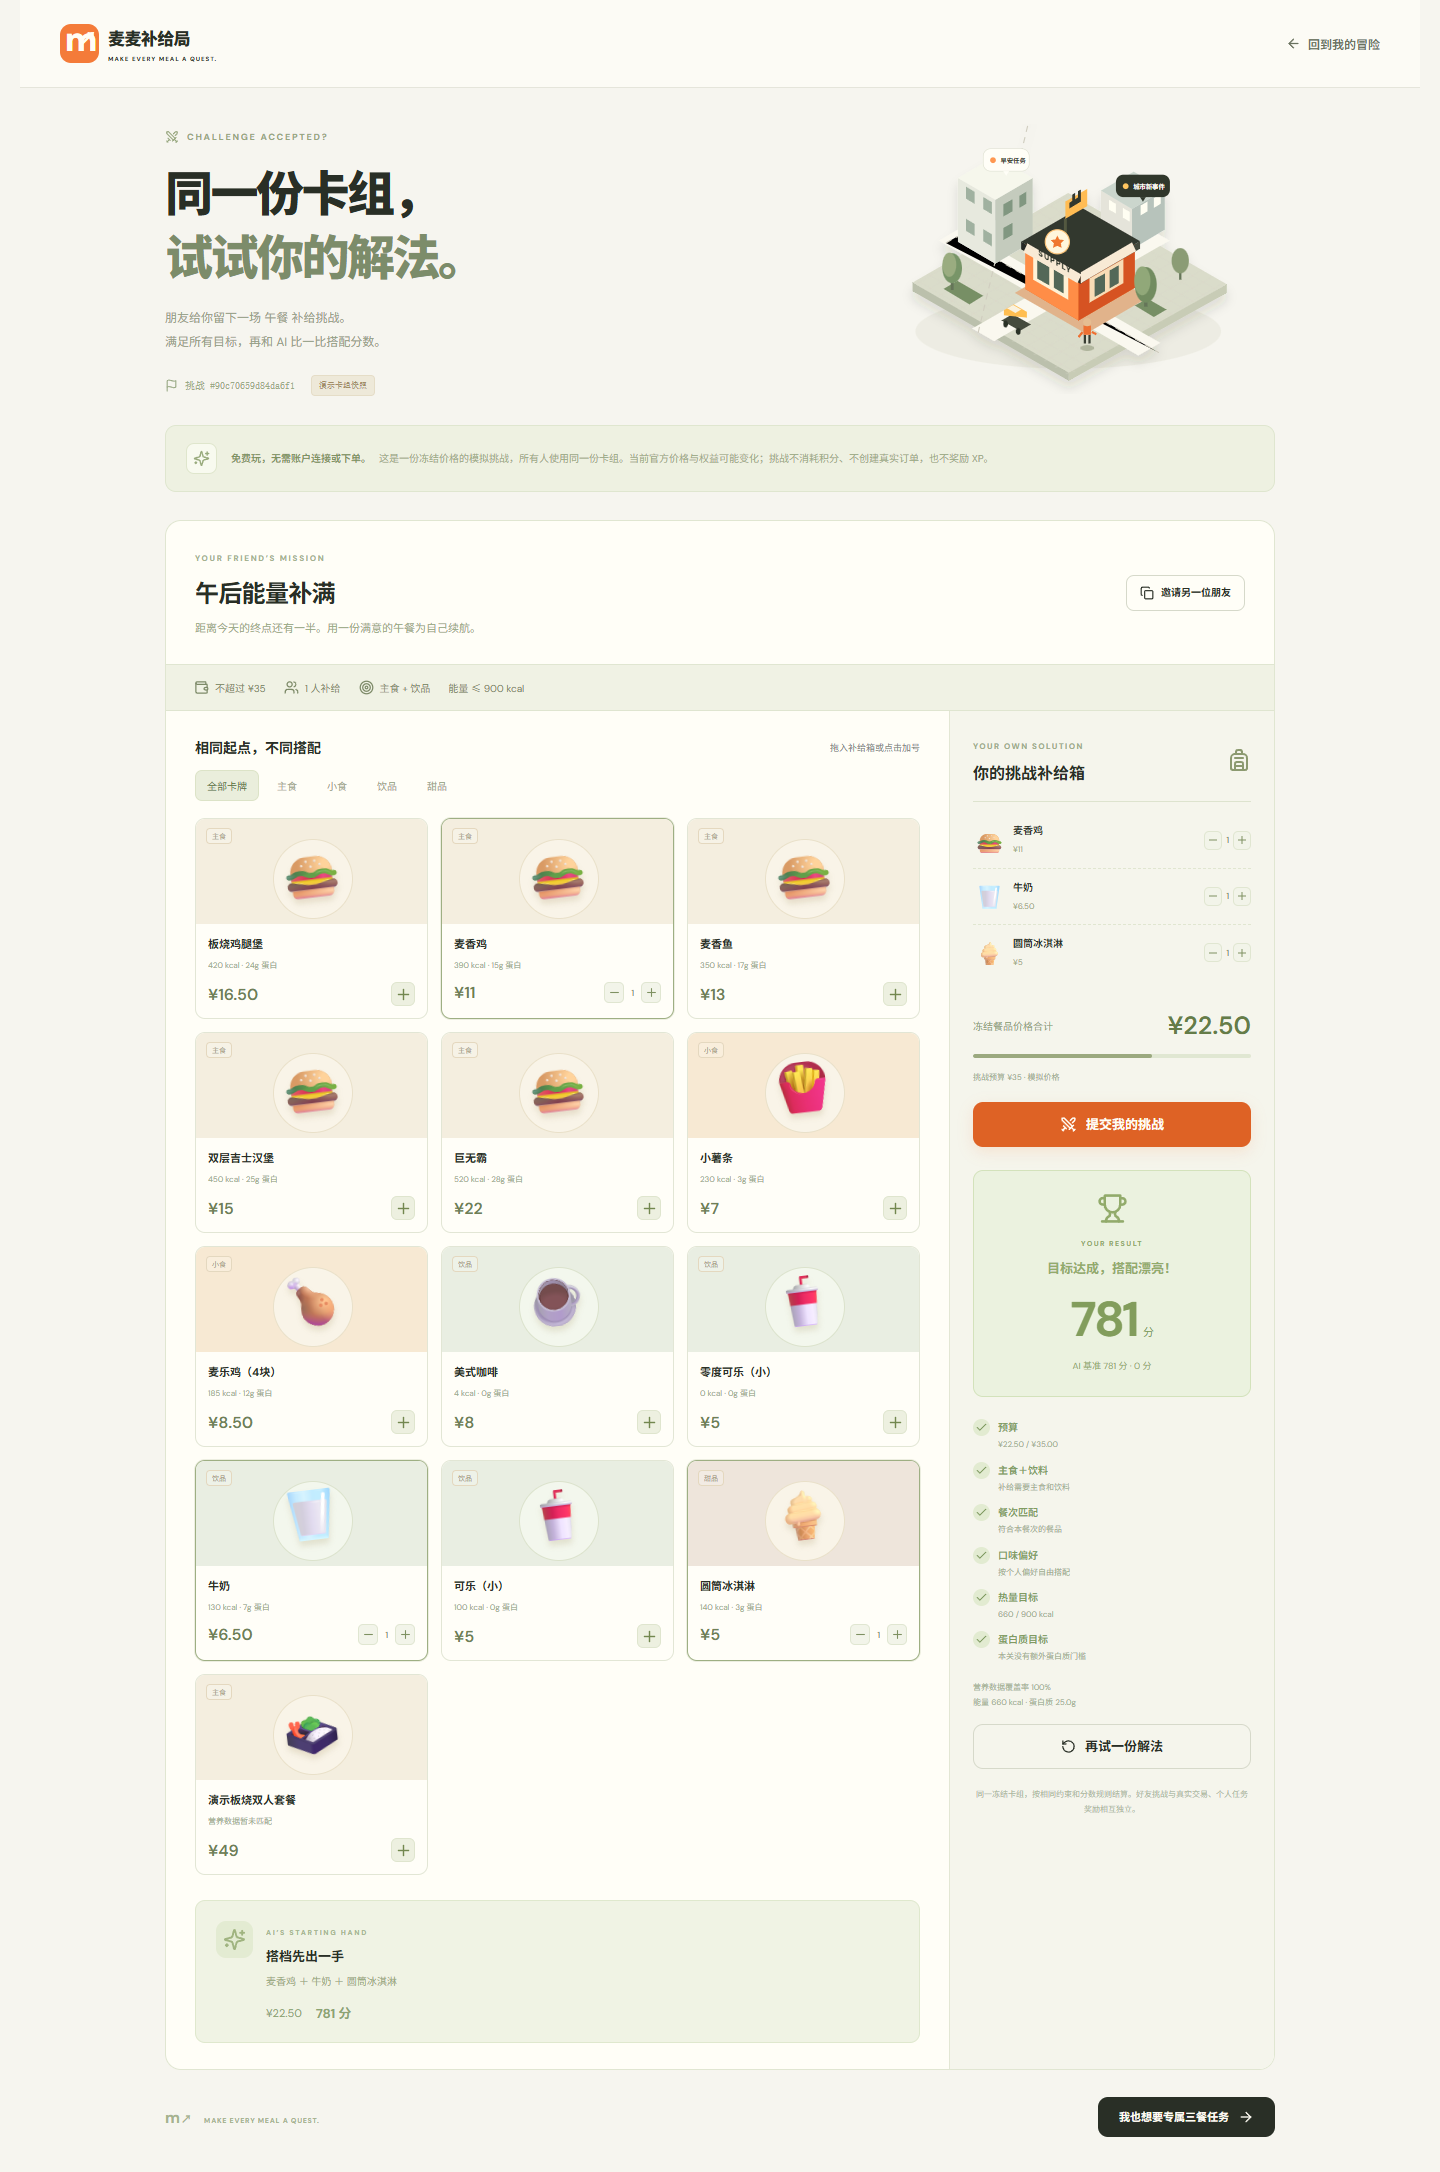
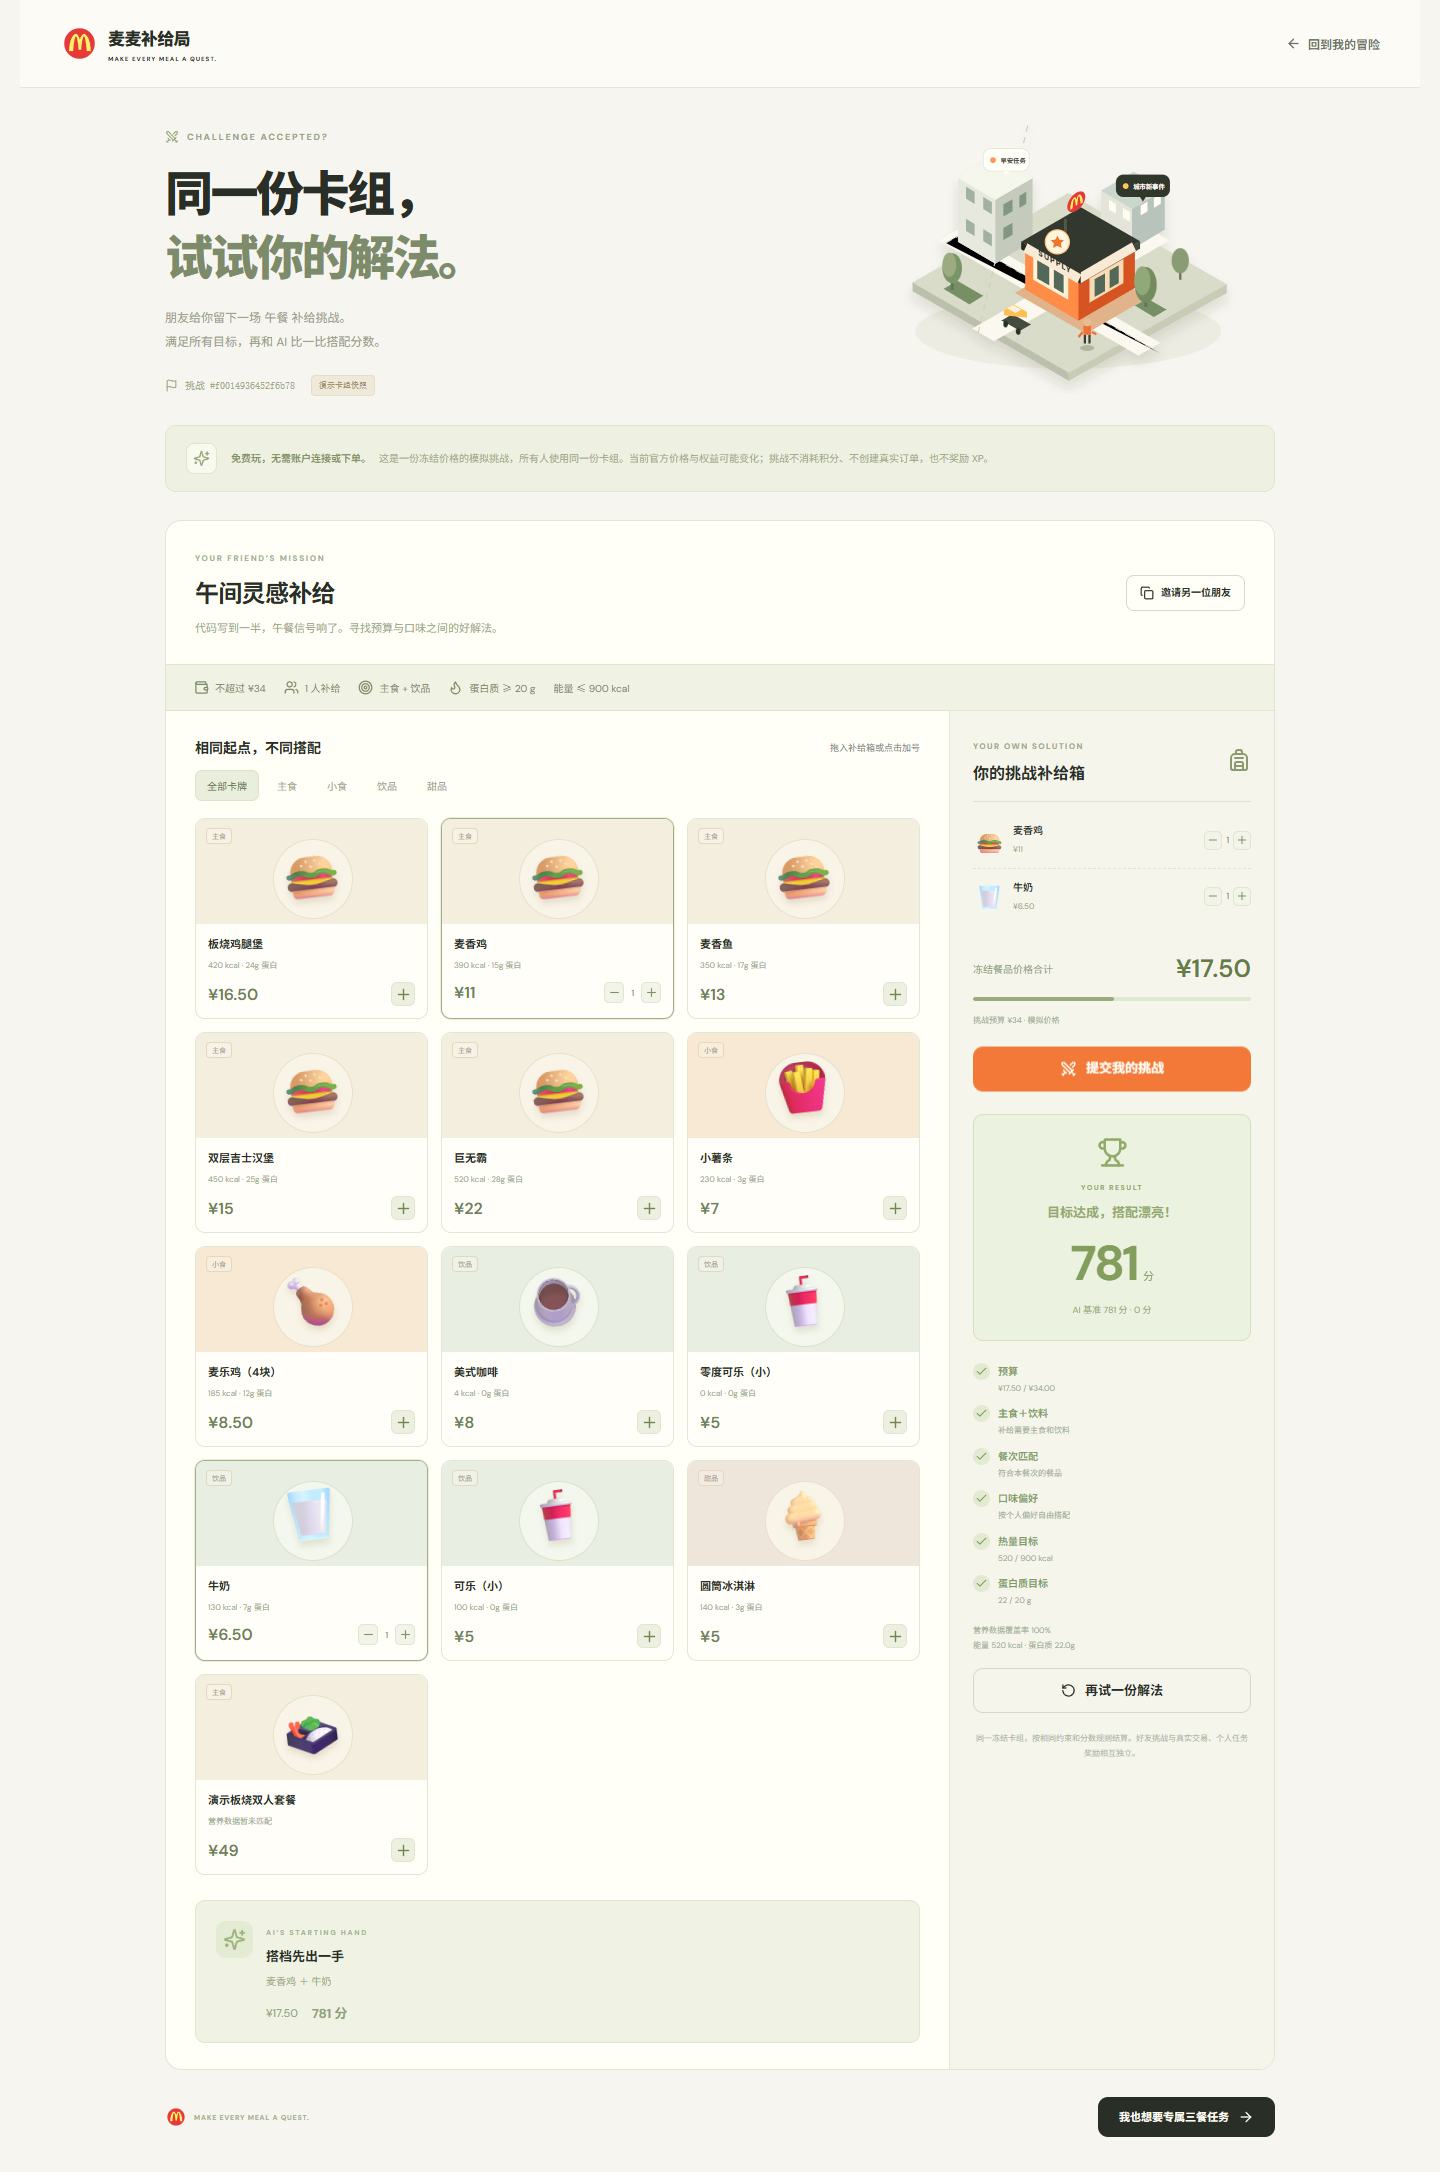
fix: clarify lunch quests and add McDonald branding and token shortcut

diff --git a/app/globals.css b/app/globals.css
@@ -245,25 +245,11 @@ button:active:not(:disabled) {
   gap: 9px;
 }
 .brand-mark {
+  display: block;
   height: 39px;
   width: 39px;
-  background: var(--orange);
-  border-radius: 11px;
-  color: #fffdf4;
-  font-size: 34px;
-  line-height: 31px;
-  font-weight: 900;
-  position: relative;
-  letter-spacing: -4px;
-  padding-left: 5px;
+  object-fit: contain;
   flex-shrink: 0;
-}
-.brand-mark > span {
-  font-size: 17px;
-  position: absolute;
-  right: 2px;
-  top: -1px;
-  letter-spacing: 0;
 }
 .brand strong {
   font-size: 17px;
@@ -1256,17 +1242,20 @@ button:active:not(:disabled) {
   color: #a8ac9c;
 }
 .footer-brand {
+  display: flex;
+  align-items: center;
+  gap: 7px;
   font-size: 7px;
   letter-spacing: 0.8px;
   white-space: nowrap;
   font-weight: 700;
 }
-.footer-brand:first-letter {
-  font-size: 16px;
-}
-.footer-brand > span {
-  font-size: 11px;
-  margin-right: 9px;
+.footer-logo {
+  display: block;
+  width: 22px;
+  height: 22px;
+  object-fit: contain;
+  flex-shrink: 0;
 }
 .dashboard-footer p {
   font-size: 8px;
@@ -1292,13 +1281,6 @@ button:active:not(:disabled) {
 .loading-screen .brand-mark {
   width: 60px;
   height: 60px;
-  font-size: 55px;
-  line-height: 50px;
-  padding-left: 8px;
-  border-radius: 17px;
-}
-.loading-screen .brand-mark > span {
-  font-size: 24px;
 }
 .loading-screen p {
   color: var(--muted);
@@ -1543,6 +1525,27 @@ button:active:not(:disabled) {
   font-size: 9px;
   line-height: 1.8;
   margin-top: 12px;
+}
+.token-portal-link {
+  display: flex;
+  flex-wrap: wrap;
+  align-items: center;
+  gap: 5px;
+  margin: 10px 0 16px;
+  font-size: 12px;
+  line-height: 1.7;
+  color: var(--muted);
+}
+.token-portal-link a {
+  display: inline-flex;
+  align-items: center;
+  gap: 5px;
+  color: var(--orange-dark);
+  text-decoration: underline;
+  text-underline-offset: 3px;
+}
+.token-portal-link a:hover {
+  color: var(--ink);
 }
 .error-banner {
   background: #f9e9df;
@@ -2858,15 +2861,6 @@ button:active:not(:disabled) {
   .brand-mark {
     width: 31px;
     height: 32px;
-    font-size: 27px;
-    line-height: 26px;
-    border-radius: 8px;
-    padding-left: 4px;
-  }
-  .brand-mark > span {
-    font-size: 13px;
-    right: 1px;
-    top: -1px;
   }
   .brand strong {
     font-size: 13px;
@@ -3244,13 +3238,6 @@ button:active:not(:disabled) {
   .brand-mark {
     width: 38px;
     height: 38px;
-    font-size: 33px;
-    line-height: 31px;
-    border-radius: 10px;
-    padding-left: 5px;
-  }
-  .brand-mark > span {
-    font-size: 17px;
   }
   .sidebar-section-label {
     font-size: 0;

diff --git a/app/page.tsx b/app/page.tsx
@@ -14,6 +14,7 @@ import {
   CircleHelp,
   Compass,
   Copy,
+  ExternalLink,
   Flame,
   Gift,
   Globe2,
@@ -48,6 +49,7 @@ import type {
   Store,
 } from '@/lib/types';
 import { CityIllustration } from '@/components/CityIllustration';
+import { McDonaldsIcon } from '@/components/McDonaldsIcon';
 import { Modal } from '@/components/Modal';
 import { ScenePanel, scenes, type SceneId } from '@/components/ScenePanel';
 
@@ -402,9 +404,7 @@ export default function Home() {
   if (!data)
     return (
       <main className="loading-screen">
-        <div className="brand-mark">
-          m<span>↗</span>
-        </div>
+        <McDonaldsIcon />
         <h1>麦麦补给局</h1>
         {initialError ? (
           <>
@@ -445,9 +445,7 @@ export default function Home() {
     <div className="app-shell">
       <aside className="sidebar">
         <a href="#today" className="brand" aria-label="麦麦补给局首页">
-          <div className="brand-mark">
-            m<span>↗</span>
-          </div>
+          <McDonaldsIcon />
           <div>
             <strong>麦麦补给局</strong>
             <small>MAKE EVERY MEAL A QUEST.</small>
@@ -812,7 +810,7 @@ export default function Home() {
           </section>
           <footer className="dashboard-footer">
             <div className="footer-brand">
-              m<span>↗</span> MAKE EVERY MEAL A QUEST.
+              <McDonaldsIcon className="footer-logo" /> MAKE EVERY MEAL A QUEST.
             </div>
             <p>
               虚拟经验与徽章不等同于麦当劳官方积分。
@@ -1454,6 +1452,12 @@ export default function Home() {
                   placeholder="输入你的个人访问 Token"
                 />
               </label>
+              <p className="token-portal-link">
+                还没有 Token？
+                <a href="https://open.mcd.cn/mcp" target="_blank" rel="noopener noreferrer">
+                  前往麦当劳官方平台创建 Token <ExternalLink size={14} />
+                </a>
+              </p>
               <p className="connection-security">
                 <ShieldCheck size={17} />
                 Token 由服务端保管，不会写进前端存储或显示在页面上。

diff --git a/lib/repository.ts b/lib/repository.ts
@@ -1,6 +1,6 @@
 import { randomUUID } from 'node:crypto';
 import { db } from './db';
-import { chinaDate, defaultProfile, generateMission, SLOTS } from './game';
+import { chinaDate, defaultProfile, generateMission, normalizeMissionTitle, SLOTS } from './game';
 import type { Profile, Mission, Bootstrap, Quote, Mode, MenuProduct, Store } from './types';
 
 export function getProfile(id: string): Profile {
@@ -48,6 +48,9 @@ export function saveProfile(id: string, input: Record<string, unknown>) {
   db().prepare('UPDATE profiles SET payload=? WHERE id=?').run(JSON.stringify(profile), id);
   return profile;
 }
+function readMission(payload: string): Mission {
+  return normalizeMissionTitle(JSON.parse(payload) as Mission);
+}
 export function dailyMissions(id: string, date = chinaDate()): Mission[] {
   const profile = getProfile(id);
   for (const slot of SLOTS) {
@@ -63,7 +66,7 @@ export function dailyMissions(id: string, date = chinaDate()): Mission[] {
     .all(id, date) as { payload: string; done: string | null }[];
   return rows
     .map(
-      (r) => ({ ...JSON.parse(r.payload), status: r.done ? 'complete' : 'available' }) as Mission,
+      (r) => ({ ...readMission(r.payload), status: r.done ? 'complete' : 'available' }) as Mission,
     )
     .sort((a, b) => SLOTS.indexOf(a.slot) - SLOTS.indexOf(b.slot));
 }
@@ -72,7 +75,7 @@ export function getMission(id: string, missionId: string): Mission {
     .prepare('SELECT payload FROM missions WHERE user_id=? AND id=?')
     .get(id, missionId) as { payload: string } | undefined;
   if (!row) throw new Error('任务不属于当前个人档案');
-  return JSON.parse(row.payload);
+  return readMission(row.payload);
 }
 export function stats(id: string): Bootstrap['stats'] {
   const rows = db()

diff --git a/app/challenge/[code]/page.tsx b/app/challenge/[code]/page.tsx
@@ -30,6 +30,7 @@ import type {
   Solution,
 } from '@/lib/types';
 import { CityIllustration } from '@/components/CityIllustration';
+import { McDonaldsIcon } from '@/components/McDonaldsIcon';
 
 type SharedChallenge = {
   code: string;
@@ -129,9 +130,7 @@ export default function ChallengePage({ params }: { params: Promise<{ code: stri
   if (!challenge)
     return (
       <main className="loading-screen">
-        <div className="brand-mark">
-          m<span>↗</span>
-        </div>
+        <McDonaldsIcon />
         <h1>好友补给挑战</h1>
         {error ? (
           <>
@@ -166,9 +165,7 @@ export default function ChallengePage({ params }: { params: Promise<{ code: stri
     <div className="challenge-shell">
       <header className="challenge-topbar">
         <a href="/" className="brand">
-          <div className="brand-mark">
-            m<span>↗</span>
-          </div>
+          <McDonaldsIcon />
           <div>
             <strong>麦麦补给局</strong>
             <small>MAKE EVERY MEAL A QUEST.</small>
@@ -501,7 +498,7 @@ export default function ChallengePage({ params }: { params: Promise<{ code: stri
         </section>
         <footer className="challenge-footer">
           <div className="footer-brand">
-            m<span>↗</span> MAKE EVERY MEAL A QUEST.
+            <McDonaldsIcon className="footer-logo" /> MAKE EVERY MEAL A QUEST.
           </div>
           <a href="/" className="button button-charcoal">
             我也想要专属三餐任务 <ArrowRight size={16} />

diff --git a/lib/game.ts b/lib/game.ts
@@ -11,6 +11,11 @@ import type {
 
 export const SLOTS: MealSlot[] = ['breakfast', 'lunch', 'dinner'];
 export const SLOT_LABELS = { breakfast: '早餐', lunch: '午餐', dinner: '晚餐' };
+export function normalizeMissionTitle(mission: Mission): Mission {
+  return mission.slot === 'lunch' && mission.title === '午后能量补满'
+    ? { ...mission, title: '正午能量补满' }
+    : mission;
+}
 export function chinaDate(now = new Date()): string {
   return new Intl.DateTimeFormat('sv-SE', {
     timeZone: 'Asia/Shanghai',
@@ -57,7 +62,7 @@ export function generateMission(profile: Profile, date: string, slot: MealSlot):
       ['午间灵感补给', '代码写到一半，午餐信号响了。寻找预算与口味之间的好解法。'],
       ['城市中场休息', '暂停忙碌，在主食与饮料之外寻找自己的午间搭配。'],
       ['正午省钱行动', '破解预算限制，用巧妙的组合给午后留下更多余量。'],
-      ['午后能量补满', '距离今天的终点还有一半。用一份满意的午餐为自己续航。'],
+      ['正午能量补满', '距离今天的终点还有一半。用一份满意的午餐为自己续航。'],
     ],
     dinner: [
       ['夜航补给行动', '城市灯光正在亮起。准备晚餐，为今天的旅程写一个满意的结尾。'],

diff --git a/app/api/game/[...action]/route.ts b/app/api/game/[...action]/route.ts
@@ -1,7 +1,14 @@
 import { randomUUID } from 'node:crypto';
 import { userId, sessionCookie, assertSameOrigin } from '@/lib/user';
 import { db } from '@/lib/db';
-import { chinaDate, cartTotals, evaluate, solveCandidates, hash } from '@/lib/game';
+import {
+  chinaDate,
+  cartTotals,
+  evaluate,
+  solveCandidates,
+  hash,
+  normalizeMissionTitle,
+} from '@/lib/game';
 import {
   getProfile,
   saveProfile,
@@ -282,7 +289,9 @@ export async function GET(request: Request, context: Context) {
       const row = db().prepare('SELECT payload FROM challenges WHERE code=?').get(code) as
         { payload: string } | undefined;
       if (!row) return json({ error: '挑战卡不存在，请让朋友重新分享' }, 404);
-      return json(JSON.parse(row.payload));
+      const snapshot = JSON.parse(row.payload);
+      snapshot.mission = normalizeMissionTitle(snapshot.mission);
+      return json(snapshot);
     }
     if (action === 'rooms') {
       const roomId = new URL(request.url).searchParams.get('id') || '';

diff --git a/components/CityIllustration.tsx b/components/CityIllustration.tsx
@@ -78,8 +78,12 @@ export function CityIllustration() {
           </text>
           <g transform="translate(100 -81)">
             <path d="M-30 17v-58" stroke="#535941" strokeWidth="5" />
-            <path d="m-30-41 38-22v-30l-38 22Z" fill="#ffbc53" />
-            <path d="m-23-69 5-3v-11l5-3v11l5-3v-11l5-3v21l-20 12Z" fill="#33372f" />
+            <image
+              href="/mcdonalds.svg"
+              width="40"
+              height="40"
+              transform="matrix(1 -.578 0 1 -31 -79)"
+            />
           </g>
         </g>
         <g fill="#778f65">

diff --git a/app/layout.tsx b/app/layout.tsx
@@ -5,6 +5,7 @@ export const metadata: Metadata = {
   title: '麦麦补给局 · 每一餐，都能出发',
   description:
     '每天三次专属于你的补给冒险。探索真实门店、搭配餐品、挑战预算，和 AI 一起把每一餐变成一场小冒险。',
+  icons: { icon: { url: '/mcdonalds.svg', type: 'image/svg+xml' } },
 };
 
 export default function RootLayout({ children }: Readonly<{ children: React.ReactNode }>) {

diff --git a/components/McDonaldsIcon.tsx b/components/McDonaldsIcon.tsx
@@ -1,0 +1,14 @@
+import Image from 'next/image';
+
+export function McDonaldsIcon({ className = 'brand-mark' }: { className?: string }) {
+  return (
+    <Image
+      src="/mcdonalds.svg"
+      alt="麦当劳"
+      width={40}
+      height={40}
+      className={className}
+      unoptimized
+    />
+  );
+}

diff --git a/docs/APP_GUIDE.md b/docs/APP_GUIDE.md
@@ -43,7 +43,7 @@ npm run dev
 
 演示模式模拟全部 35 个 MCP 工具，可以体验领券、抽奖、积分兑换、派对预约、订单查询和取消流程。价格与营养是演示值，积分与订单也是模拟，演示付款不会产生真实交易。
 
-真实模式需要个人麦当劳 MCP Token，可在 [麦当劳 MCP 开放平台](https://open.mcd.cn/mcp) 申请。在页面连接设置中填写 Token 后，应用服务端与官方 MCP 建立连接。Token 仅留在服务端内存，服务重启后需重新连接。不要将 Token 提交到 GitHub、聊天记录或分享文件。模式切换后重新选择门店和验价，旧模式的报价不能用于新模式通关或下单。
+真实模式需要个人麦当劳 MCP Token，可在 [麦当劳 MCP 开放平台](https://open.mcd.cn/mcp) 申请。连接设置的 Token 输入框下方提供「前往麦当劳官方平台创建 Token」快捷入口，会在新标签页打开官方平台。取得 Token 并填入后，应用服务端与官方 MCP 建立连接。Token 仅留在服务端内存，服务重启后需重新连接。不要将 Token 提交到 GitHub、聊天记录或分享文件。模式切换后重新选择门店和验价，旧模式的报价不能用于新模式通关或下单。
 
 营业状态、供应、活动资格、库存与费用以官方实时结果为准。城市图是玩法示意，门店距离只是接口参考值，不提供真实导航。官方活动日历当前覆盖当月，跨月信息无法据此推断。
 
